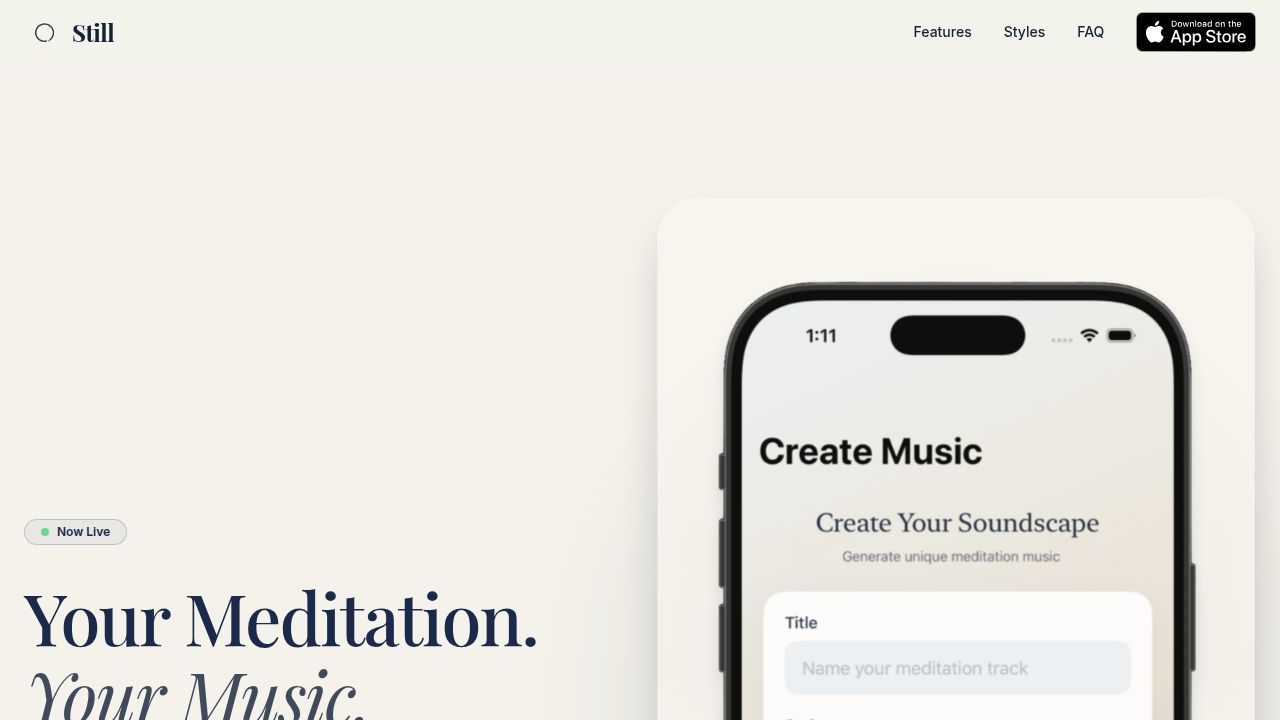
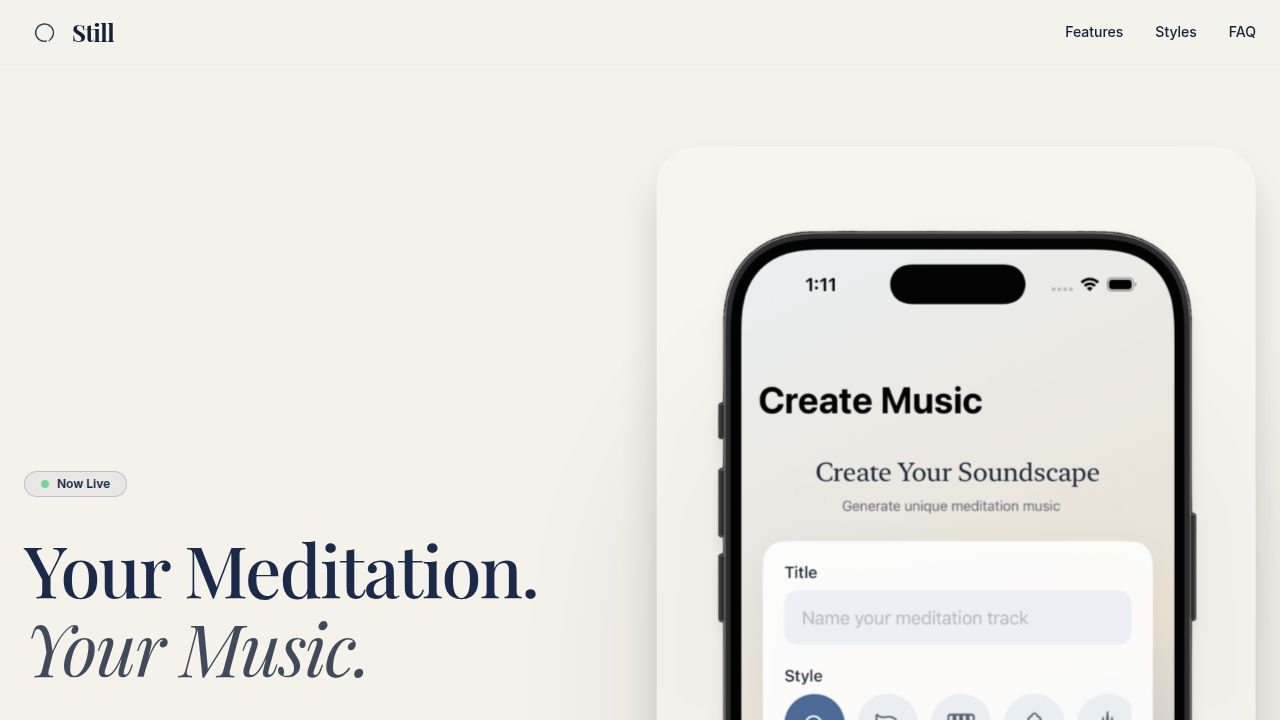
Reduce white space at the top of the home page
Adjusted top padding on the hero section of the home page from `pt-32` to `pt-24` (mobile) and `lg:pt-48` to `lg:pt-36` (desktop) to decrease white space.

Replit-Commit-Author: Agent
Replit-Commit-Session-Id: 0a3a7c38-b7cd-4f18-bb64-6adce1bf6ea9
Replit-Commit-Checkpoint-Type: full_checkpoint
Replit-Commit-Event-Id: 05849605-e3a5-46c8-8610-3318d7b2957f
Replit-Commit-Screenshot-Url: https://storage.googleapis.com/screenshot-production-us-central1/6ee001aa-e9ef-458e-a37c-67a454c1175c/0a3a7c38-b7cd-4f18-bb64-6adce1bf6ea9/g91UQSu
Replit-Helium-Checkpoint-Created: true

diff --git a/client/src/pages/home.tsx b/client/src/pages/home.tsx
@@ -179,7 +179,7 @@ export default function Home() {
       </nav>
 
       {/* Hero Section */}
-      <section className="relative pt-32 pb-20 lg:pt-48 lg:pb-32 overflow-hidden">
+      <section className="relative pt-24 pb-20 lg:pt-36 lg:pb-32 overflow-hidden">
         {/* Abstract Background Blobs */}
         <div className="absolute top-0 right-0 -translate-y-1/4 translate-x-1/4 w-[600px] h-[600px] bg-blue-100/50 rounded-full blur-3xl -z-10 dark:bg-blue-900/20"></div>
         <div className="absolute bottom-0 left-0 translate-y-1/4 -translate-x-1/4 w-[500px] h-[500px] bg-orange-50/50 rounded-full blur-3xl -z-10 dark:bg-orange-900/10"></div>
